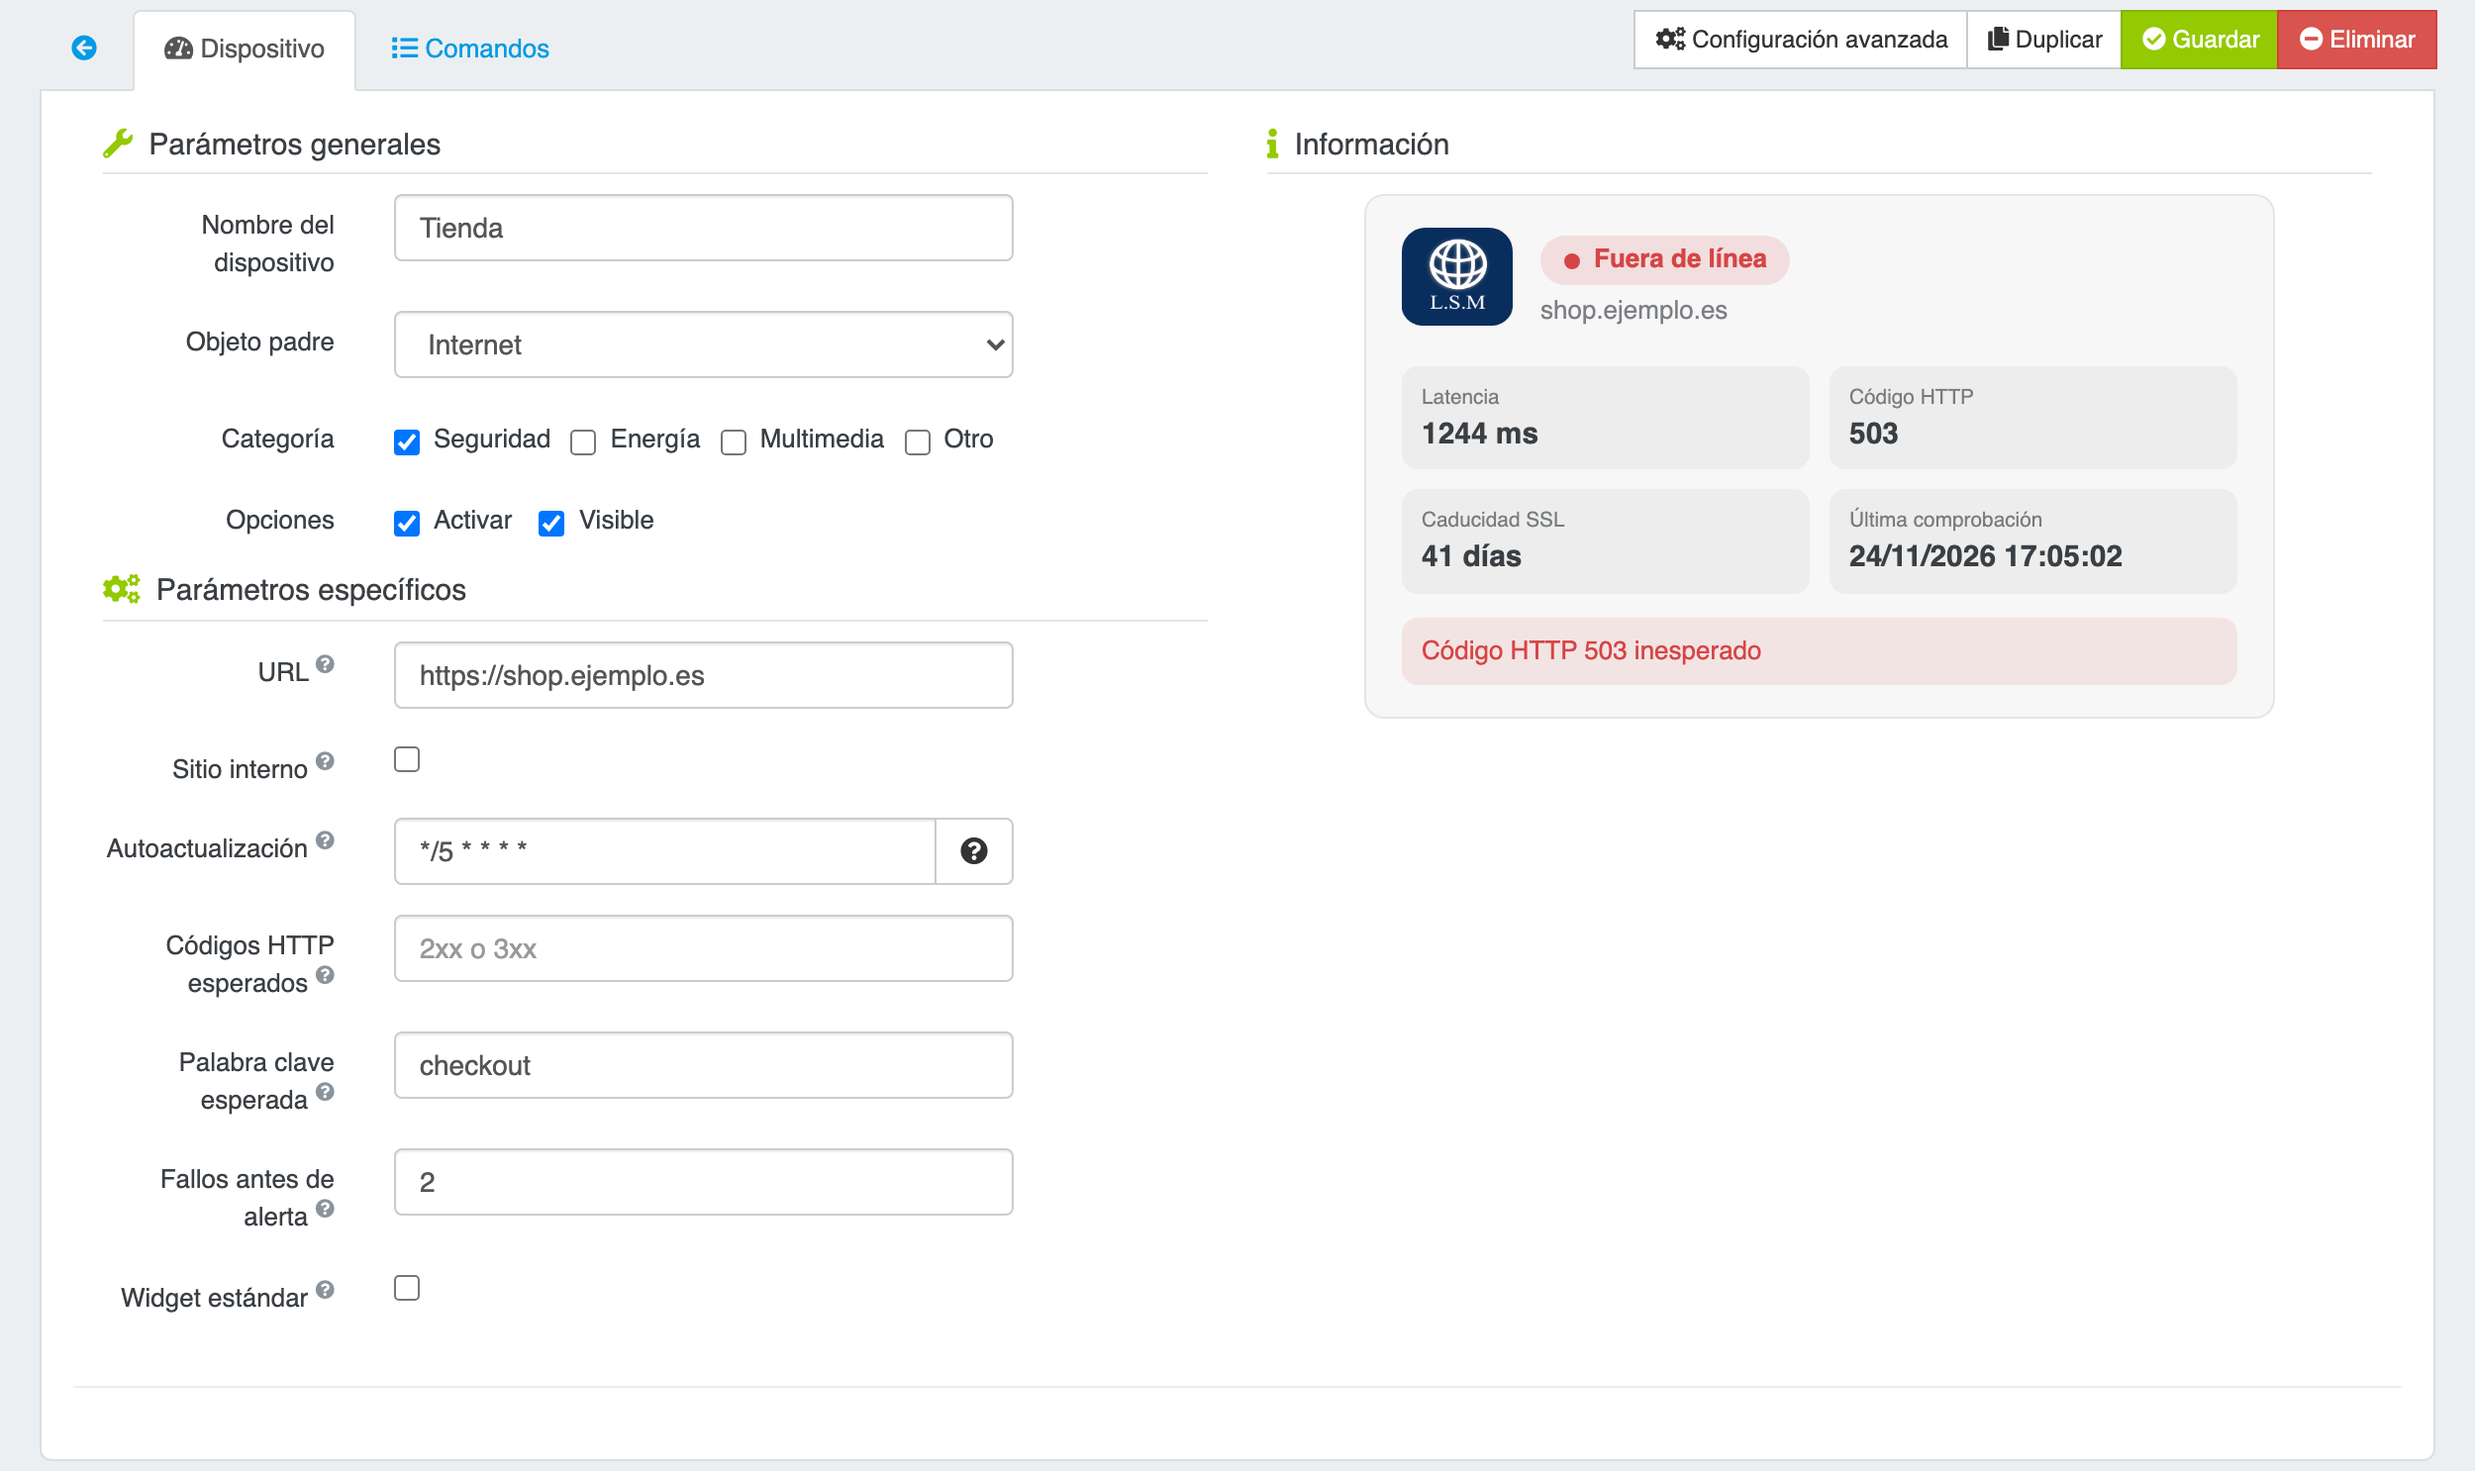
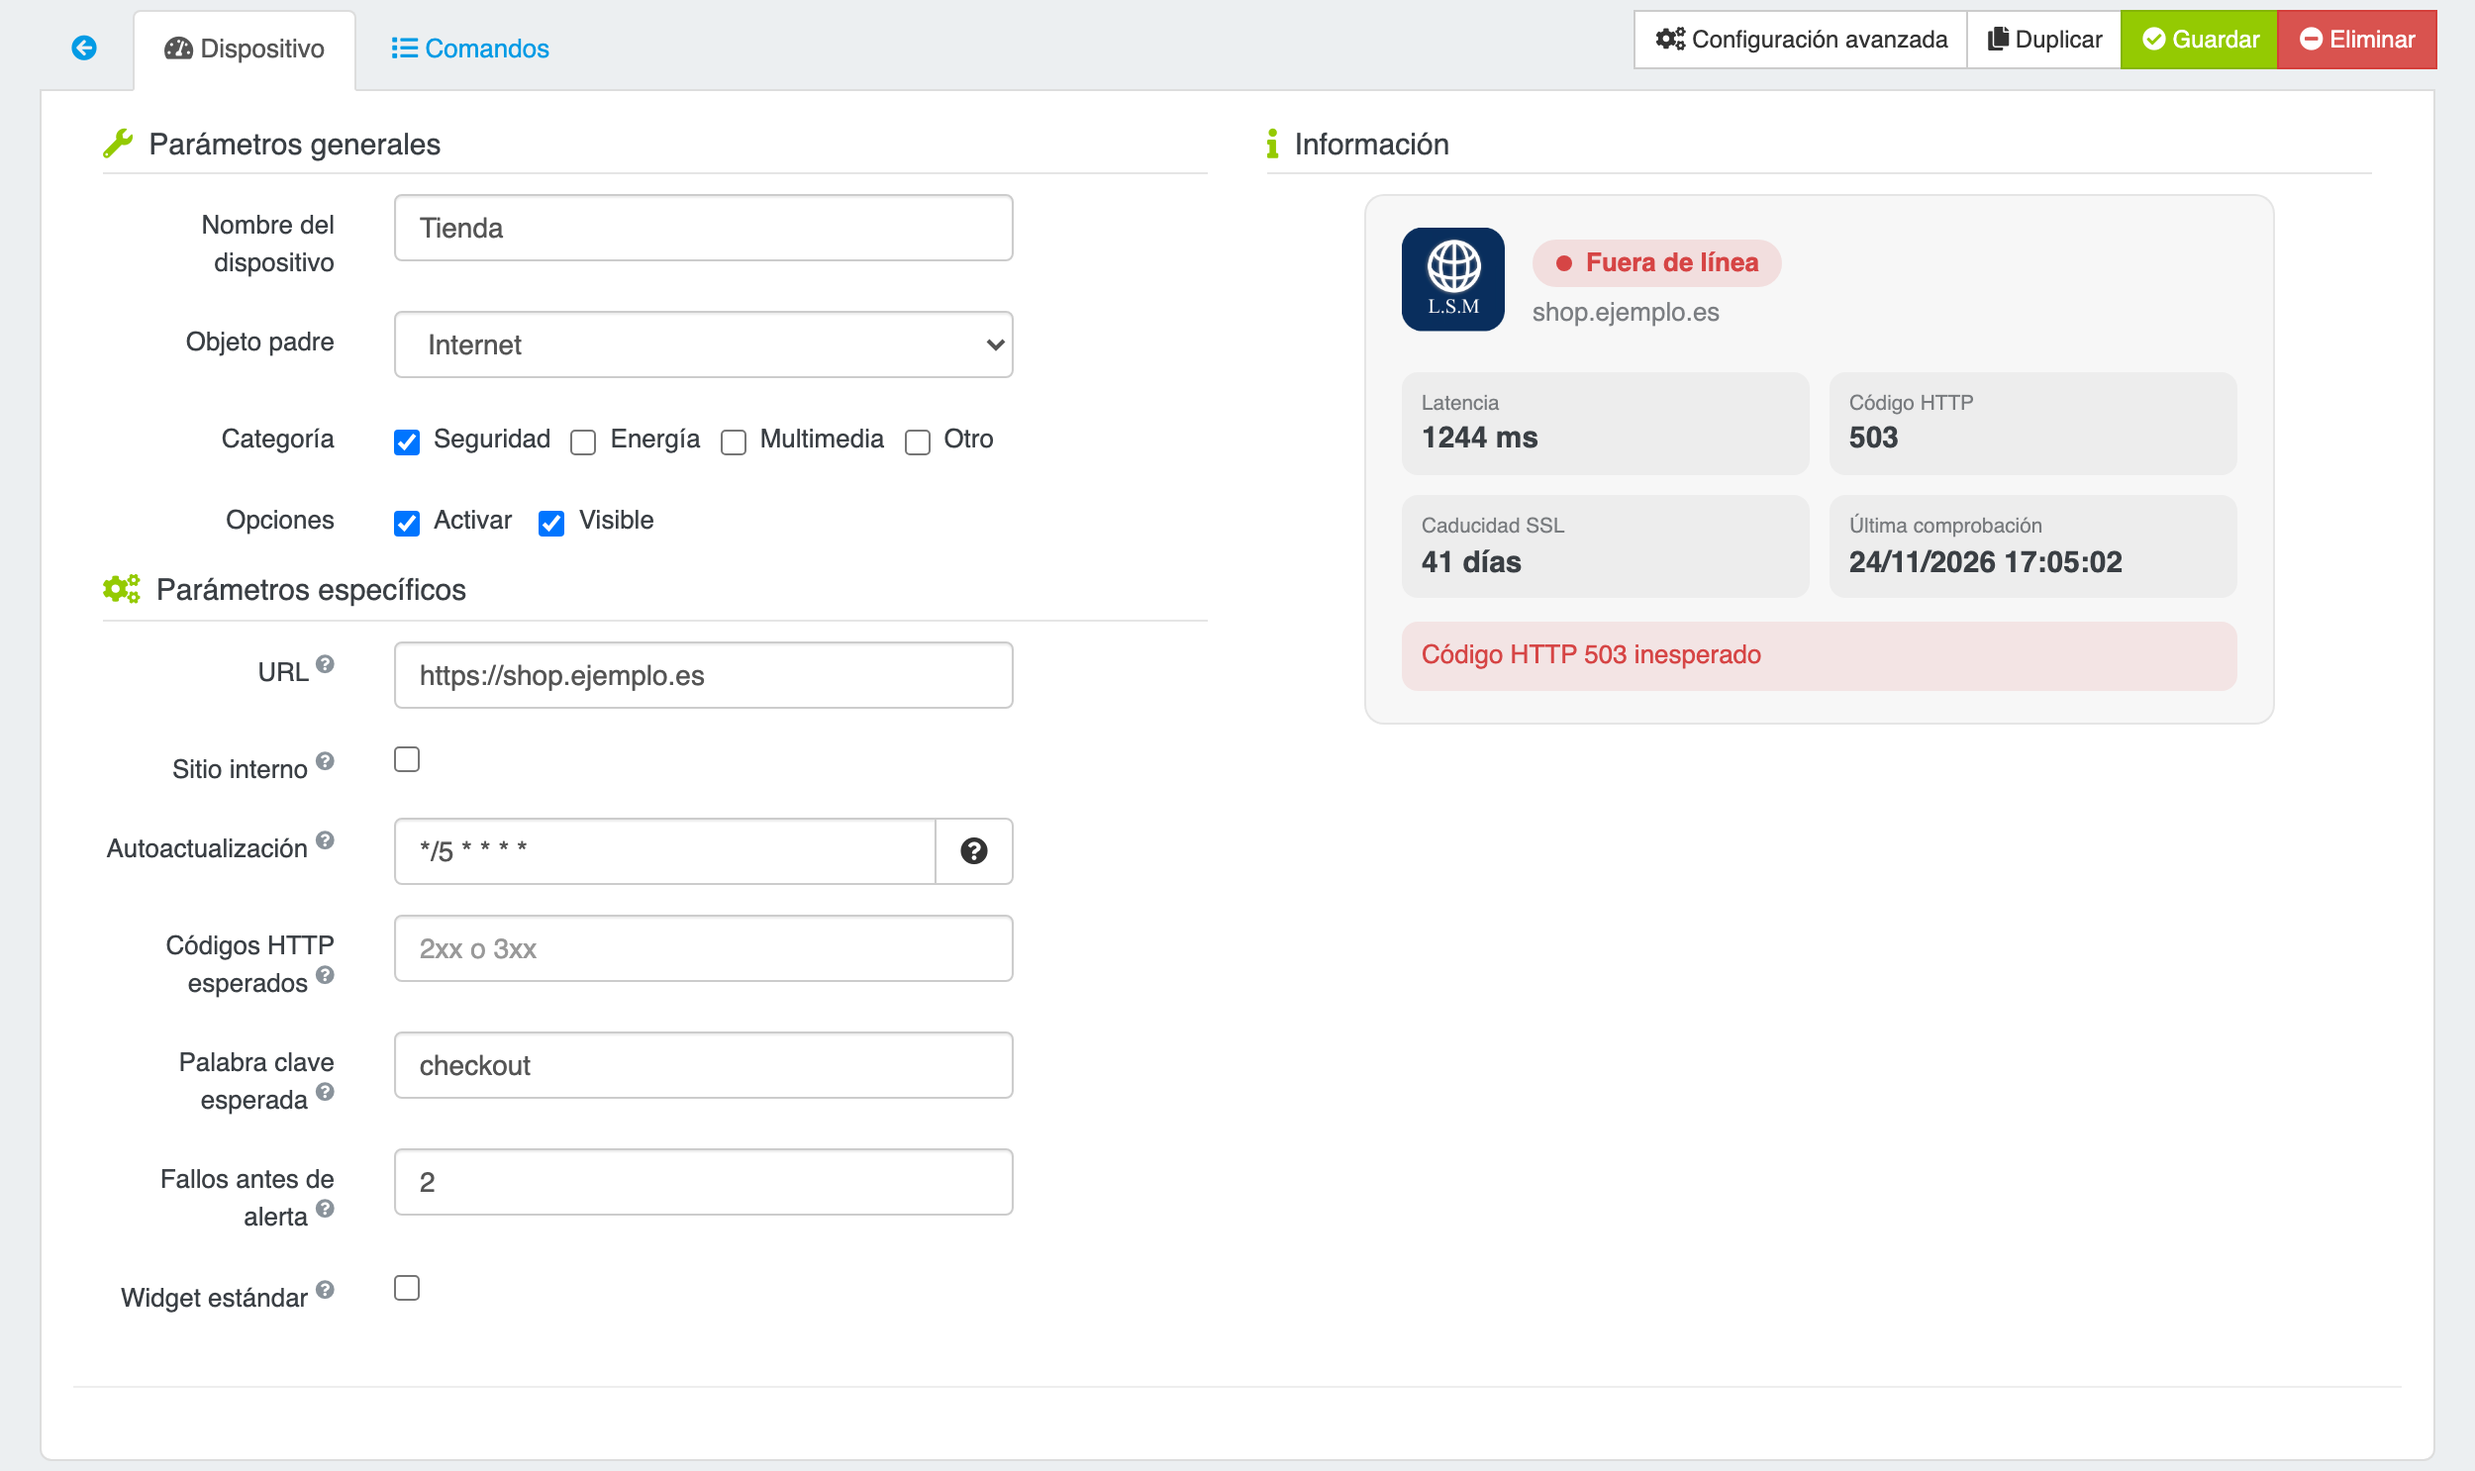
Ajout d'un contrôle immédiat après l'installation pour éviter l'affichage des anciennes valeurs

diff --git a/desktop/css/lite_site_monitoring.css b/desktop/css/lite_site_monitoring.css
@@ -45,9 +45,9 @@
   margin-bottom: 14px;
 }
 .lsm-panel-head img {
-  width: 56px;
-  height: 56px;
-  border-radius: 12px;
+  flex: 0 0 auto;
+  width: 52px;
+  height: auto;
 }
 .lsm-panel-pill {
   --lsm-color: #8a939b;

diff --git a/plugin_info/install.php b/plugin_info/install.php
@@ -41,6 +41,12 @@ require_once dirname(__FILE__) . '/../../../core/php/core.inc.php';
         log::add('lite_site_monitoring', 'error', $eqLogic->getHumanName() . ' : ' . $e->getMessage());
       }
     }
+    // Premier contrôle immédiat, pour ne pas afficher les anciennes valeurs jusqu'au prochain cron
+    try {
+      lite_site_monitoring::checkAll(eqLogic::byType('lite_site_monitoring', true));
+    } catch (Exception $e) {
+      log::add('lite_site_monitoring', 'error', 'Contrôle après mise à jour : ' . $e->getMessage());
+    }
   }
 
 // Fonction exécutée automatiquement après la suppression du plugin
